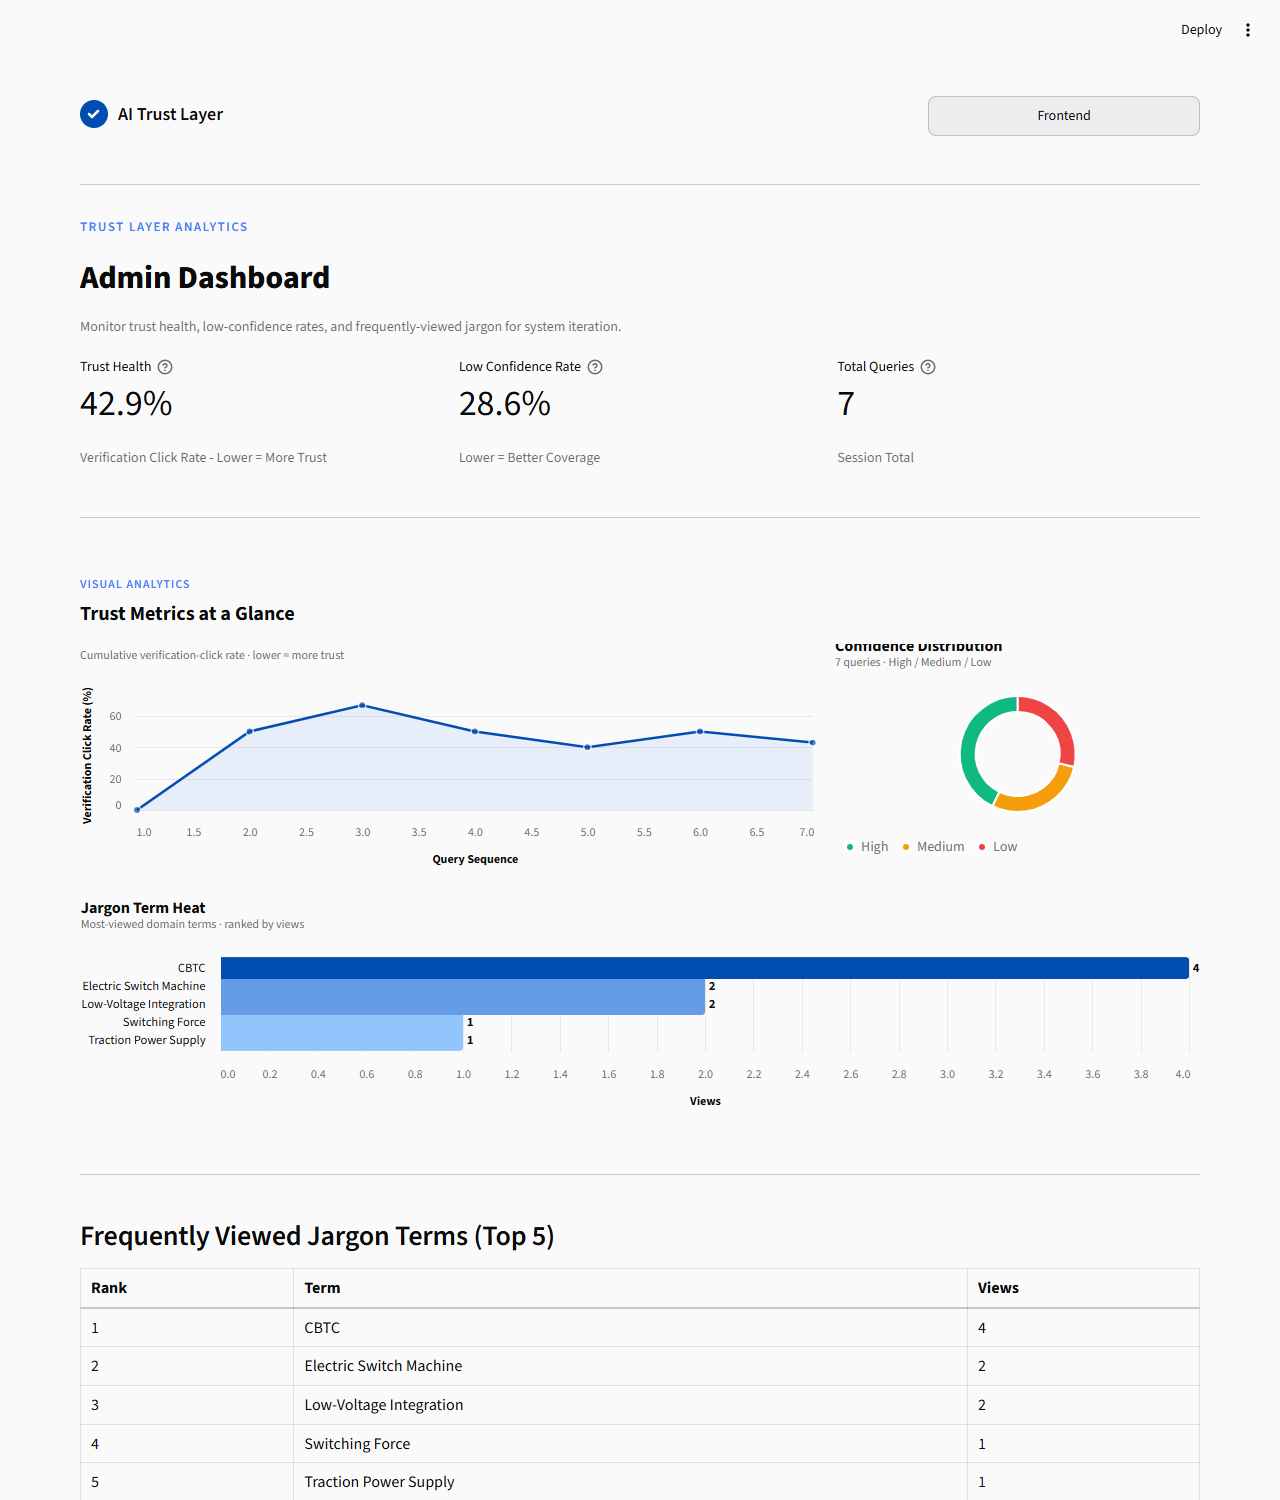
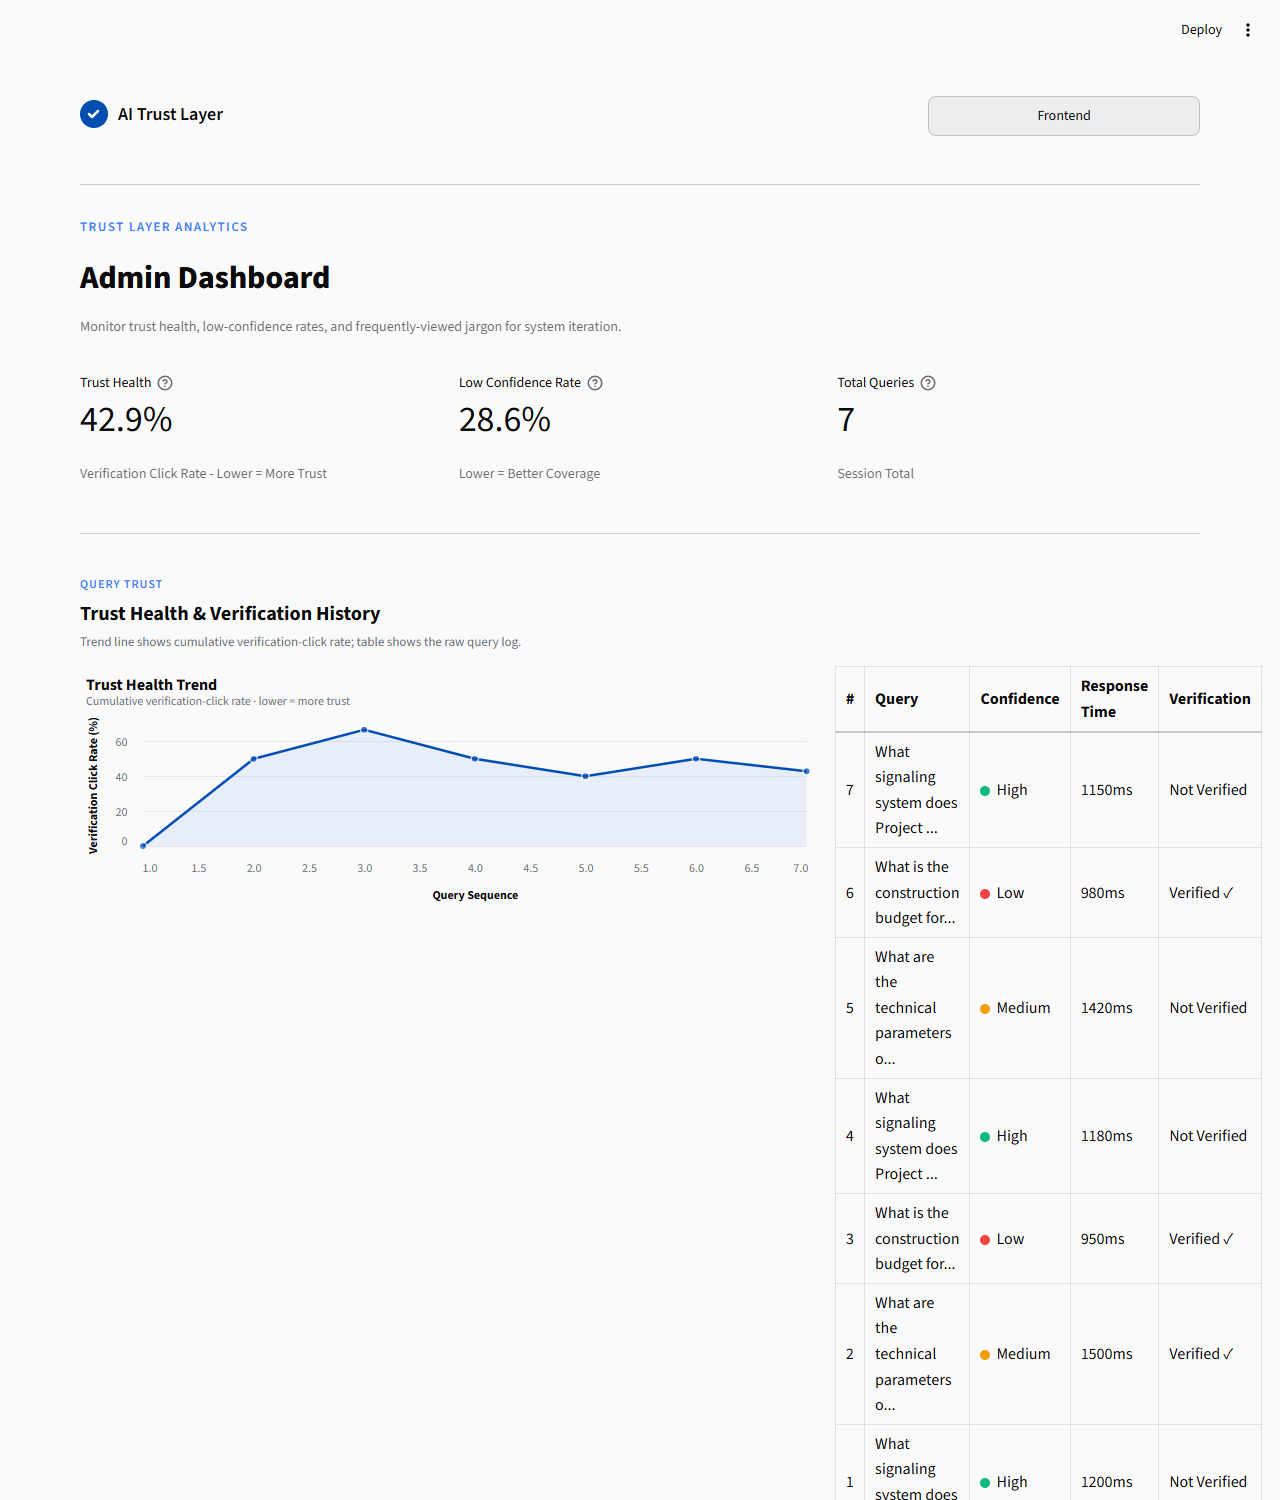
P1: redesign admin dashboard layout - pair charts with raw data + fix title overflow

diff --git a/ai_trust_layer/admin.py b/ai_trust_layer/admin.py
@@ -34,23 +34,24 @@ def render_admin():
         st.info("No data yet. Please make queries in the frontend first.")
         return
 
+    # Inject chart white-card style once per render
+    _inject_chart_style()
+
     # Three metric cards
     render_metric_cards(metrics)
 
     st.divider()
 
-    # P1: Visual analytics — trend line + confidence donut + term-frequency bar
-    render_charts(log, metrics)
+    # P1: Visual analytics paired with raw data for stronger hierarchy
+    render_section_query_trust(log, metrics)
 
     st.divider()
 
-    # Top 5 jargon terms
-    render_top_jargon(metrics["top_jargon"])
+    render_section_confidence(log, metrics)
 
     st.divider()
 
-    # Recent query records
-    render_recent_queries(metrics["recent_queries"])
+    render_section_jargon(metrics)
 
 
 # ---------------------------------------------------------------------------
@@ -88,7 +89,10 @@ def _inject_chart_style():
 def _style(chart):
     """Apply P0 typography / axis treatment to an altair chart."""
     return (
-        chart.configure_view(strokeWidth=0)
+        chart.properties(
+            padding={"top": 18, "left": 6, "right": 6, "bottom": 6}
+        )
+        .configure_view(strokeWidth=0)
         .configure_axis(
             labelColor=_MUTED,
             titleColor=_TEXT,
@@ -105,6 +109,7 @@ def _style(chart):
             color=_TEXT,
             subtitleColor=_MUTED,
             subtitleFontSize=12,
+            offset=10,
         )
         .configure_legend(labelColor=_MUTED, titleColor=_TEXT)
     )
@@ -225,26 +230,111 @@ def _build_jargon_bar(top_jargon: list):
     return _style(chart)
 
 
-def render_charts(log: list, metrics: dict):
-    """Render the three P1 analytics charts under a consistent eyebrow/title block."""
-    _inject_chart_style()
-    st.markdown(
+# ---------------------------------------------------------------------------
+# P1: Visual analytics — each chart paired with its raw data source
+# ---------------------------------------------------------------------------
+
+def _section_header(eyebrow: str, title: str, subtitle: str = ""):
+    """Reusable section eyebrow + title in P0 design language."""
+    html = (
         '<div style="margin:4px 0 14px 0;">'
-        '<span style="color:#3B82F6; font-size:12px; font-weight:600; letter-spacing:1px;">VISUAL ANALYTICS</span>'
-        '<div style="color:#0A0A0B; font-size:20px; font-weight:700; margin-top:2px;">Trust Metrics at a Glance</div>'
-        "</div>",
-        unsafe_allow_html=True,
+        f'<span style="color:#3B82F6; font-size:12px; font-weight:600; letter-spacing:1px;">{eyebrow}</span>'
+        f'<div style="color:#0A0A0B; font-size:20px; font-weight:700; margin-top:2px;">{title}</div>'
+    )
+    if subtitle:
+        html += f'<div style="color:#6B7280; font-size:13px; margin-top:2px;">{subtitle}</div>'
+    html += "</div>"
+    st.markdown(html, unsafe_allow_html=True)
+
+
+def render_section_query_trust(log: list, metrics: dict):
+    """Trust Health trend chart + raw recent query history (side by side)."""
+    _section_header(
+        eyebrow="QUERY TRUST",
+        title="Trust Health & Verification History",
+        subtitle="Trend line shows cumulative verification-click rate; table shows the raw query log.",
     )
 
-    col_trend, col_donut = st.columns([2, 1])
-    with col_trend:
+    col_chart, col_table = st.columns([2, 1])
+    with col_chart:
         st.altair_chart(_build_trend_chart(log), use_container_width=True)
-    with col_donut:
-        st.altair_chart(_build_confidence_donut(log), use_container_width=True)
+    with col_table:
+        render_recent_queries(metrics["recent_queries"])
 
-    bar = _build_jargon_bar(metrics["top_jargon"])
-    if bar is not None:
-        st.altair_chart(bar, use_container_width=True)
+
+def render_section_confidence(log: list, metrics: dict):
+    """Confidence distribution donut + raw breakdown table (side by side)."""
+    _section_header(
+        eyebrow="CONFIDENCE BREAKDOWN",
+        title="High / Medium / Low Distribution",
+        subtitle="Donut shows the share of each confidence level; table shows counts and percentages.",
+    )
+
+    col_chart, col_table = st.columns([1, 2])
+    with col_chart:
+        st.altair_chart(_build_confidence_donut(log), use_container_width=True)
+    with col_table:
+        render_confidence_breakdown(log, metrics)
+
+
+def render_section_jargon(metrics: dict):
+    """Jargon term heat bar chart + raw top-5 ranking table (side by side)."""
+    _section_header(
+        eyebrow="JARGON INSIGHTS",
+        title="Term Heat & Rankings",
+        subtitle="Bar chart visualizes view intensity; table keeps the exact ranked counts.",
+    )
+
+    col_chart, col_table = st.columns([2, 1])
+    with col_chart:
+        bar = _build_jargon_bar(metrics["top_jargon"])
+        if bar is not None:
+            st.altair_chart(bar, use_container_width=True)
+    with col_table:
+        render_top_jargon(metrics["top_jargon"])
+
+
+def render_confidence_breakdown(log: list, metrics: dict):
+    """Raw confidence distribution table: count + percentage + semantic color dot."""
+    total = metrics["total_queries"]
+    counts = Counter(e.confidence_level for e in log)
+    rows = [
+        ("High", counts.get("high", 0), _GREEN),
+        ("Medium", counts.get("medium", 0), _ORANGE),
+        ("Low", counts.get("low", 0), _RED),
+    ]
+
+    table_rows = ""
+    for label, count, color in rows:
+        pct = round(count / total * 100, 1) if total else 0
+        table_rows += (
+            f'<tr style="border-bottom: 1px solid rgba(128,128,128,0.2);">'
+            f'<td style="text-align: left; padding: 8px 10px;">'
+            f'<span style="display:inline-block; width:10px; height:10px; border-radius:50%; background:{color}; margin-right:8px; vertical-align:middle;"></span>'
+            f'{label}'
+            f'</td>'
+            f'<td style="text-align: left; padding: 8px 10px; font-weight:600;">{count}</td>'
+            f'<td style="text-align: left; padding: 8px 10px; color:{color}; font-weight:600;">{pct}%</td>'
+            f'</tr>'
+        )
+
+    st.markdown(
+        f"""
+        <table style="width: 100%; border-collapse: collapse;">
+            <thead>
+                <tr style="border-bottom: 2px solid rgba(128,128,128,0.4);">
+                    <th style="text-align: left; padding: 8px 10px;">Confidence</th>
+                    <th style="text-align: left; padding: 8px 10px;">Count</th>
+                    <th style="text-align: left; padding: 8px 10px;">Share</th>
+                </tr>
+            </thead>
+            <tbody>
+                {table_rows}
+            </tbody>
+        </table>
+        """,
+        unsafe_allow_html=True,
+    )
 
 
 def render_metric_cards(metrics: dict):
@@ -287,9 +377,7 @@ def render_metric_cards(metrics: dict):
 
 
 def render_top_jargon(jargon_list: list):
-    """Top 5 frequently viewed jargon terms"""
-    st.markdown("### Frequently Viewed Jargon Terms (Top 5)")
-
+    """Top 5 frequently viewed jargon terms (rendered as a clean table)."""
     if not jargon_list:
         st.info("No jargon view records yet")
         return
@@ -325,15 +413,7 @@ def render_top_jargon(jargon_list: list):
 
 
 def render_recent_queries(queries: list):
-    """Recent 10 query records"""
-    st.markdown(
-        '<div style="margin:8px 0 16px 0;">'
-        '<span style="color:#3B82F6; font-size:12px; font-weight:600; letter-spacing:1px;">QUERY HISTORY</span>'
-        '<div style="color:#0A0A0B; font-size:20px; font-weight:700; margin-top:2px;">Recent Queries</div>'
-        '</div>',
-        unsafe_allow_html=True,
-    )
-
+    """Recent 10 query records (rendered as a clean table)."""
     if not queries:
         st.info("No query records yet")
         return

diff --git a/ai_trust_layer/_verify_p1_admin_sections.py b/ai_trust_layer/_verify_p1_admin_sections.py
@@ -1,0 +1,45 @@
+import time
+from playwright.sync_api import sync_playwright
+
+BASE = "http://localhost:8501"
+OUT = r"E:\新建文件夹\UL_Portfolio\ai_trust_layer\screenshots"
+
+
+def wait_text(page, text, timeout=20000):
+    start = time.time()
+    while time.time() - start < timeout / 1000.0:
+        try:
+            body = page.evaluate("document.body ? document.body.innerText : ''")
+            if text in body:
+                return
+        except Exception:
+            pass
+        time.sleep(0.4)
+    raise TimeoutError(f"text not found within {timeout}ms: {text!r}")
+
+
+with sync_playwright() as p:
+    browser = p.chromium.launch(channel="msedge", headless=True)
+    page = browser.new_page(viewport={"width": 1280, "height": 2400})
+
+    page.goto(BASE, wait_until="domcontentloaded")
+    wait_text(page, "Every AI answer")
+    # Go to Admin
+    page.get_by_role("button", name="Admin").click()
+    wait_text(page, "TRUST LAYER ANALYTICS")
+    time.sleep(2.5)
+
+    # Full page capture (tall viewport ensures everything is visible)
+    page.screenshot(path=f"{OUT}/p1_admin_full.png", full_page=True)
+
+    # Section-specific viewport captures for close inspection
+    page.locator("text=CONFIDENCE BREAKDOWN").scroll_into_view_if_needed()
+    time.sleep(0.5)
+    page.screenshot(path=f"{OUT}/p1_admin_confidence.png")
+
+    page.locator("text=JARGON INSIGHTS").scroll_into_view_if_needed()
+    time.sleep(0.5)
+    page.screenshot(path=f"{OUT}/p1_admin_jargon.png")
+
+    browser.close()
+print("DONE")

diff --git a/.workbuddy/memory/2026-07-25.md b/.workbuddy/memory/2026-07-25.md
@@ -239,5 +239,26 @@ AppTest 验证：`ADMIN_EXCEPTION_EMPTY: True`（图表运行时无异常）。
 **版本**：
 - `p0-baseline` tag 保留在 `0550713`，P0 完成在 `4e58cdf`；P1 工作限定在独立分支 `p1-admin-dashboard`
 
-**待确认 / 下一步**：
-- P0 已确认；P1 Admin Dashboard 三图等用户确认后合并到 main
+## P1 Admin Dashboard  redesign：图表与原始数据对应 + 标题溢出修复（2026-07-25 12:34）
+
+用户反馈：① 饼图/柱状图标题顶部有边框溢出风险；② 三个图表堆在页面中部，原始数据（Recent Queries + Top 5 Jargon）被拆成两块，阅读层次差。
+
+**修复 1 — 标题溢出**：
+- `_style` 给每个 altair chart 加 `.properties(padding={"top": 18, ...})`，在 SVG 内部预留标题空间
+- `.configure_title(offset=10)` 把标题整体向下推，避免被卡片上沿裁切
+
+**修复 2 — 布局重设计（图表 ↔ 原始数据对应）**：
+- 去掉原来「图表堆中间 + 两个表格分上下」的结构
+- 改为三个横向分组，每组 eyebrow + 标题 + 副标题 + 左图右表：
+  1. **QUERY TRUST** — Trust Health Trend（左 2/3）+ Recent Queries 原始日志（右 1/3）
+  2. **CONFIDENCE BREAKDOWN** — Confidence Distribution 环形图（左 1/3）+ 高/中/低 counts + shares 表格（右 2/3）
+  3. **JARGON INSIGHTS** — Jargon Term Heat 横向柱状图（左 2/3）+ Top 5 Jargon Terms 排名表（右 1/3）
+- 新增 `_section_header` 统一生成 eyebrow/标题/副标题；新增 `render_confidence_breakdown` 显示原始分布数据
+- `render_top_jargon` / `render_recent_queries` 移除自身的章节标题，变成纯表格渲染器，供对应 section 调用
+
+**验证**：
+- py_compile 通过
+- Playwright + Edge 真实运行截图：`p1_admin_full.png` / `p1_admin_confidence.png` / `p1_admin_jargon.png`
+- 临时截取 homepage 确认 frontend P0 未被改动
+- 提交 P1 redesign commit
+

diff --git a/.workbuddy/memory/MEMORY.md b/.workbuddy/memory/MEMORY.md
@@ -19,7 +19,7 @@
 - ✅ 录屏：3 分钟 demo 视频（videos/）
 - ✅ ardot 设计稿：P0 首页引导层 + 低置信度警报横幅重设计（file ID 707535023504113），从默认 Streamlit 升级到浅色 + 深蓝信任色 + Inter/IBM Plex Mono 企业 SaaS 调性
 - ✅ P0 全部完成：首页引导层 + 高/中/低置信度结果页 pill/alert + 点击展开渐进式呈现 + Admin Dashboard eyebrow/CSS 圆点；已 git 锚定（`p0-baseline` 指向 `0550713`，P0 完成 `4e58cdf`）。
-- ✅ P1 Admin Dashboard 三图完成（trust health trend line + confidence distribution donut + jargon term bar chart），在独立分支 `p1-admin-dashboard` 待用户确认合并。
+- ✅ P1 Admin Dashboard 三图完成（trust health trend line + confidence distribution donut + jargon term bar chart），在独立分支 `p1-admin-dashboard` 待用户确认合并；已进一步重设计为「图表 ↔ 原始数据」一一对应布局，并修复标题顶部溢出。
 
 ## HCI 理论锚点（叙事必备）
 - Progressive Disclosure（Nielsen Heuristic）
